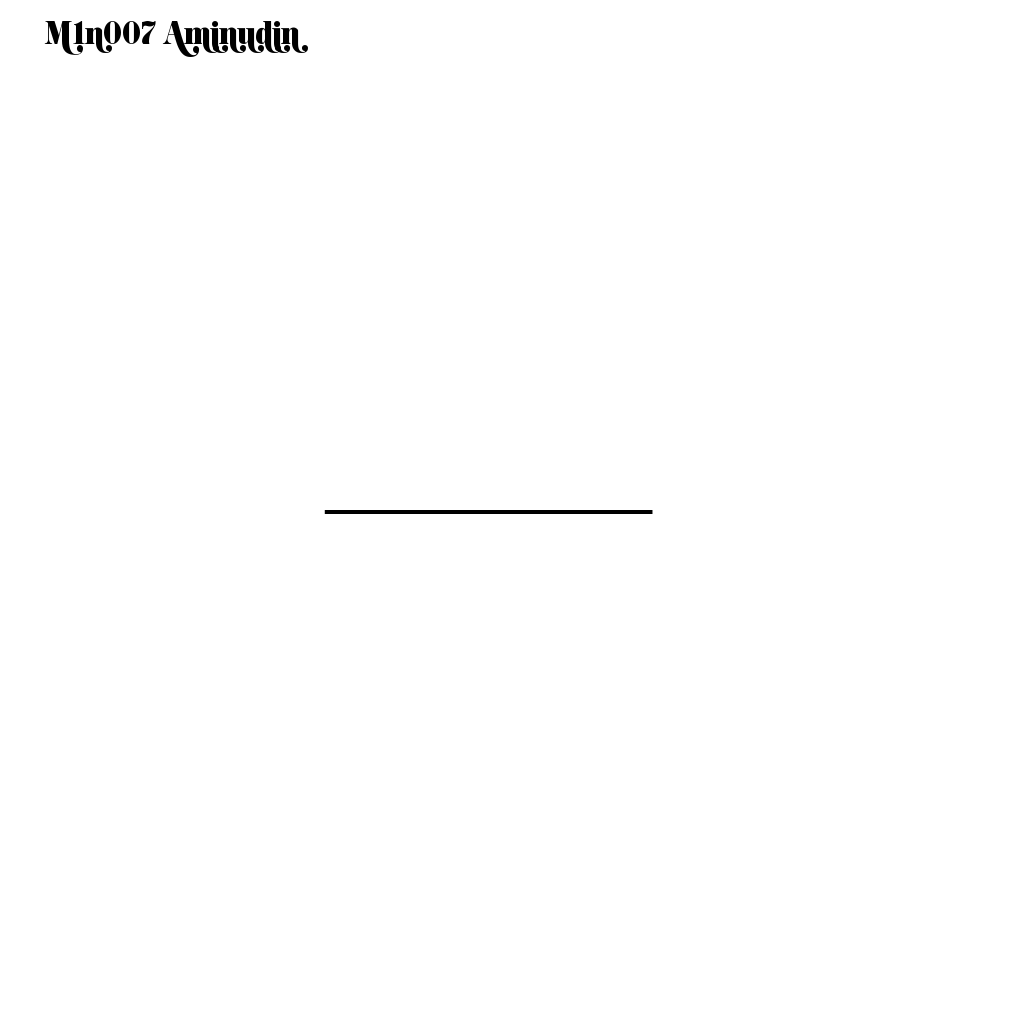
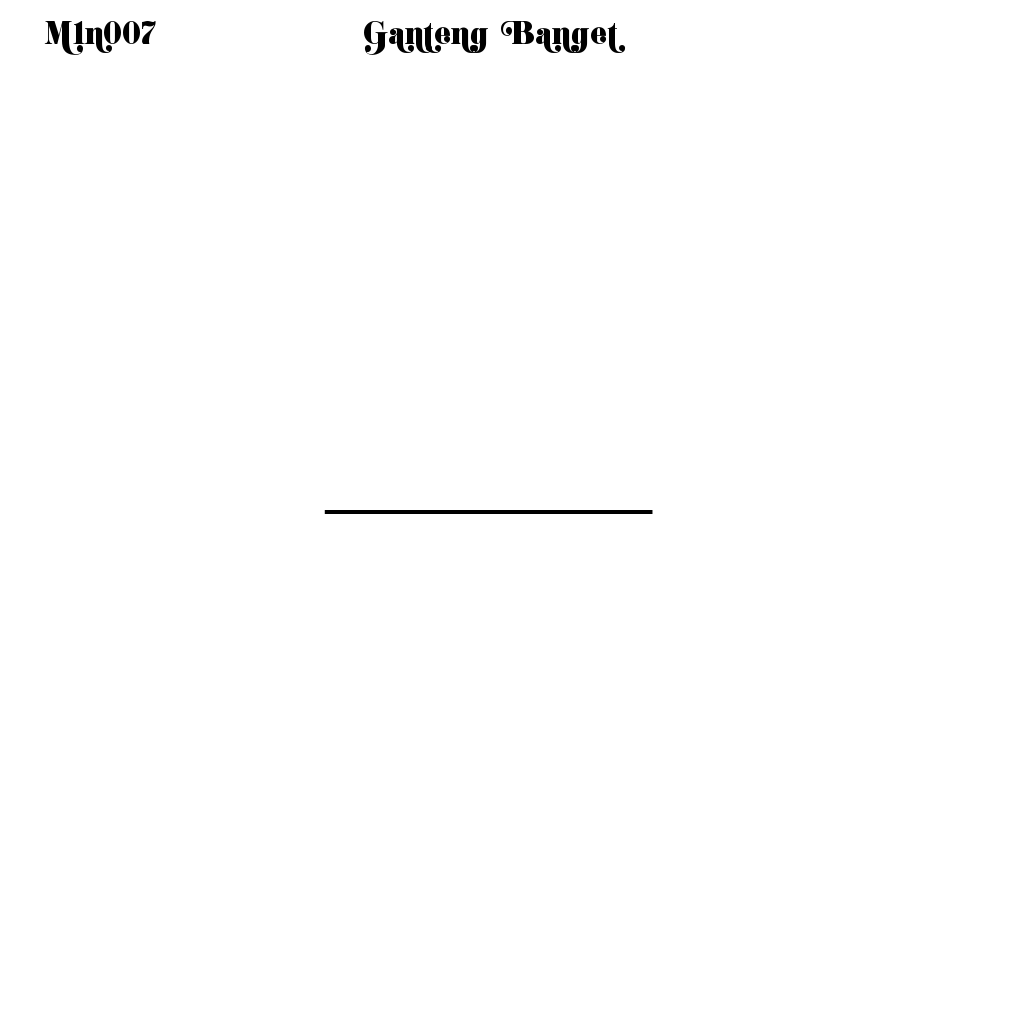
bug:generator

Changed region(s): [[0.3438, 0.0, 0.625, 0.0625], [0.1562, 0.0, 0.3125, 0.0625]]

diff --git a/index.js b/index.js
@@ -1,86 +1,94 @@
-const Jimp = require('jimp');
-const { v4: uuidv4 } = require('uuid');
-const fs = require('fs');
+const Jimp = require("jimp");
+const { v4: uuidv4 } = require("uuid");
+const fs = require("fs");
 
+const generateImage = async (text, x, y, uuid, flag = "") => {
+  try {
+    let firstText = text;
+    let image = {};
 
-const generateImage = async (text, x, y, uuid, flag = '') => {
-    try {
-        let firstText = text;
-        let image = {};
-
-        if (flag == 'first') {
-            image = await Jimp.read('./template.png');
-        }else{
-            error = false;
-            do {
-                try{
-                    image = await Jimp.read(`./${uuid}.png`);
-                    error = false;
-                }catch(e){
-                    error = true;
-                }
-            } while (error);
+    if (flag == "first") {
+      image = await Jimp.read("./template.png");
+    } else {
+      error = false;
+      do {
+        try {
+          image = await Jimp.read(`./${uuid}.png`);
+          error = false;
+        } catch (e) {
+          error = true;
         }
-
-        const font = await Jimp.loadFont('./fonts/k22.ttf/C1rvncEcAMYbW_dhq3GhK6ZY.ttf.fnt');
-
-        const textHight = Jimp.measureTextHeight(font, firstText);
-
-        const imageX = x;
-        const imageY = y;
-
-        const textOptions = {
-            text: firstText,
-            alignmentX: Jimp.HORIZONTAL_ALIGN_CENTER,
-            alignmentY: Jimp.VERTICAL_ALIGN_MIDDLE
-        };
-
-
-        await image.print(font, imageX, imageY, textOptions, 1000, textHight);
-        if (flag == 'latest') {
-            fs.unlinkSync(`./${uuid}.png`);
-            await image.writeAsync('./result.png'); 
-        }else{
-            await image.writeAsync(`./${uuid}.png`); 
-        }
-        
-
-    } catch (e) {
-        throw new Error(e)
+      } while (error);
     }
+
+    const font = await Jimp.loadFont(
+      "./fonts/k22.ttf/C1rvncEcAMYbW_dhq3GhK6ZY.ttf.fnt"
+    );
+
+    const textHight = Jimp.measureTextHeight(font, firstText);
+
+    const imageX = x;
+    const imageY = y;
+
+    const textOptions = {
+      text: firstText,
+      alignmentX: Jimp.HORIZONTAL_ALIGN_CENTER,
+      alignmentY: Jimp.VERTICAL_ALIGN_MIDDLE,
+    };
+
+    await image.print(font, imageX, imageY, textOptions, 1000, textHight);
+    if (flag == "latest") {
+      fs.unlinkSync(`./${uuid}.png`);
+      await image.writeAsync("./result.png");
+    } else {
+      await image.writeAsync(`./${uuid}.png`);
+    }
+  } catch (e) {
+    throw new Error(e);
+  }
 };
 
-
-
 (async () => {
+  const config = [
+    {
+      id: 1,
+      sign: "M1n007",
+      x: -400,
+      y: 20,
+    },
+    {
+      id: 2,
+      sign: "Aminudin",
+      x: -270,
+      y: 20,
+    },
+    {
+      id: 3,
+      sign: "honestyan",
+      x: -140,
+      y: 50,
+    },
+    {
+      id: 4,
+      sign: "Ganteng Banget",
+      x: -10,
+      y: 20,
+    },
+  ];
 
-    const config = [
-        {
-            id: 1,
-            sign: 'M1n007',
-            x: -400,
-            y: 20
-        },
-        {
-            id: 2,
-            sign: 'Aminudin',
-            x: -270,
-            y: 20
-        }
-    ];
+  const uuid = uuidv4();
 
-    const uuid = uuidv4();
-
-    config.map(async (data, i) => {
-        if (i == 0) {
-            await generateImage(data.sign, data.x, data.y, uuid, 'first')
-        }else if(i+1 == config[config.length-1].id){
-            await generateImage(data.sign, data.x, data.y, uuid, 'latest')
-        }else{
-            await generateImage(data.sign, data.x, data.y, uuid, '')
-        }
-        
-    });
-
-    
+  //ngebug min anjirrr
+  config.map(async (data, i) => {
+    if (i == 0) {
+      await generateImage(data.sign, data.x, data.y, uuid, "first");
+      console.log("first");
+    } else if (i + 1 == config[config.length - 1].id) {
+      await generateImage(data.sign, data.x, data.y, uuid, "latest");
+      console.log("latest");
+    } else {
+      await generateImage(data.sign, data.x, data.y, uuid, "");
+      console.log("normal");
+    }
+  });
 })();
